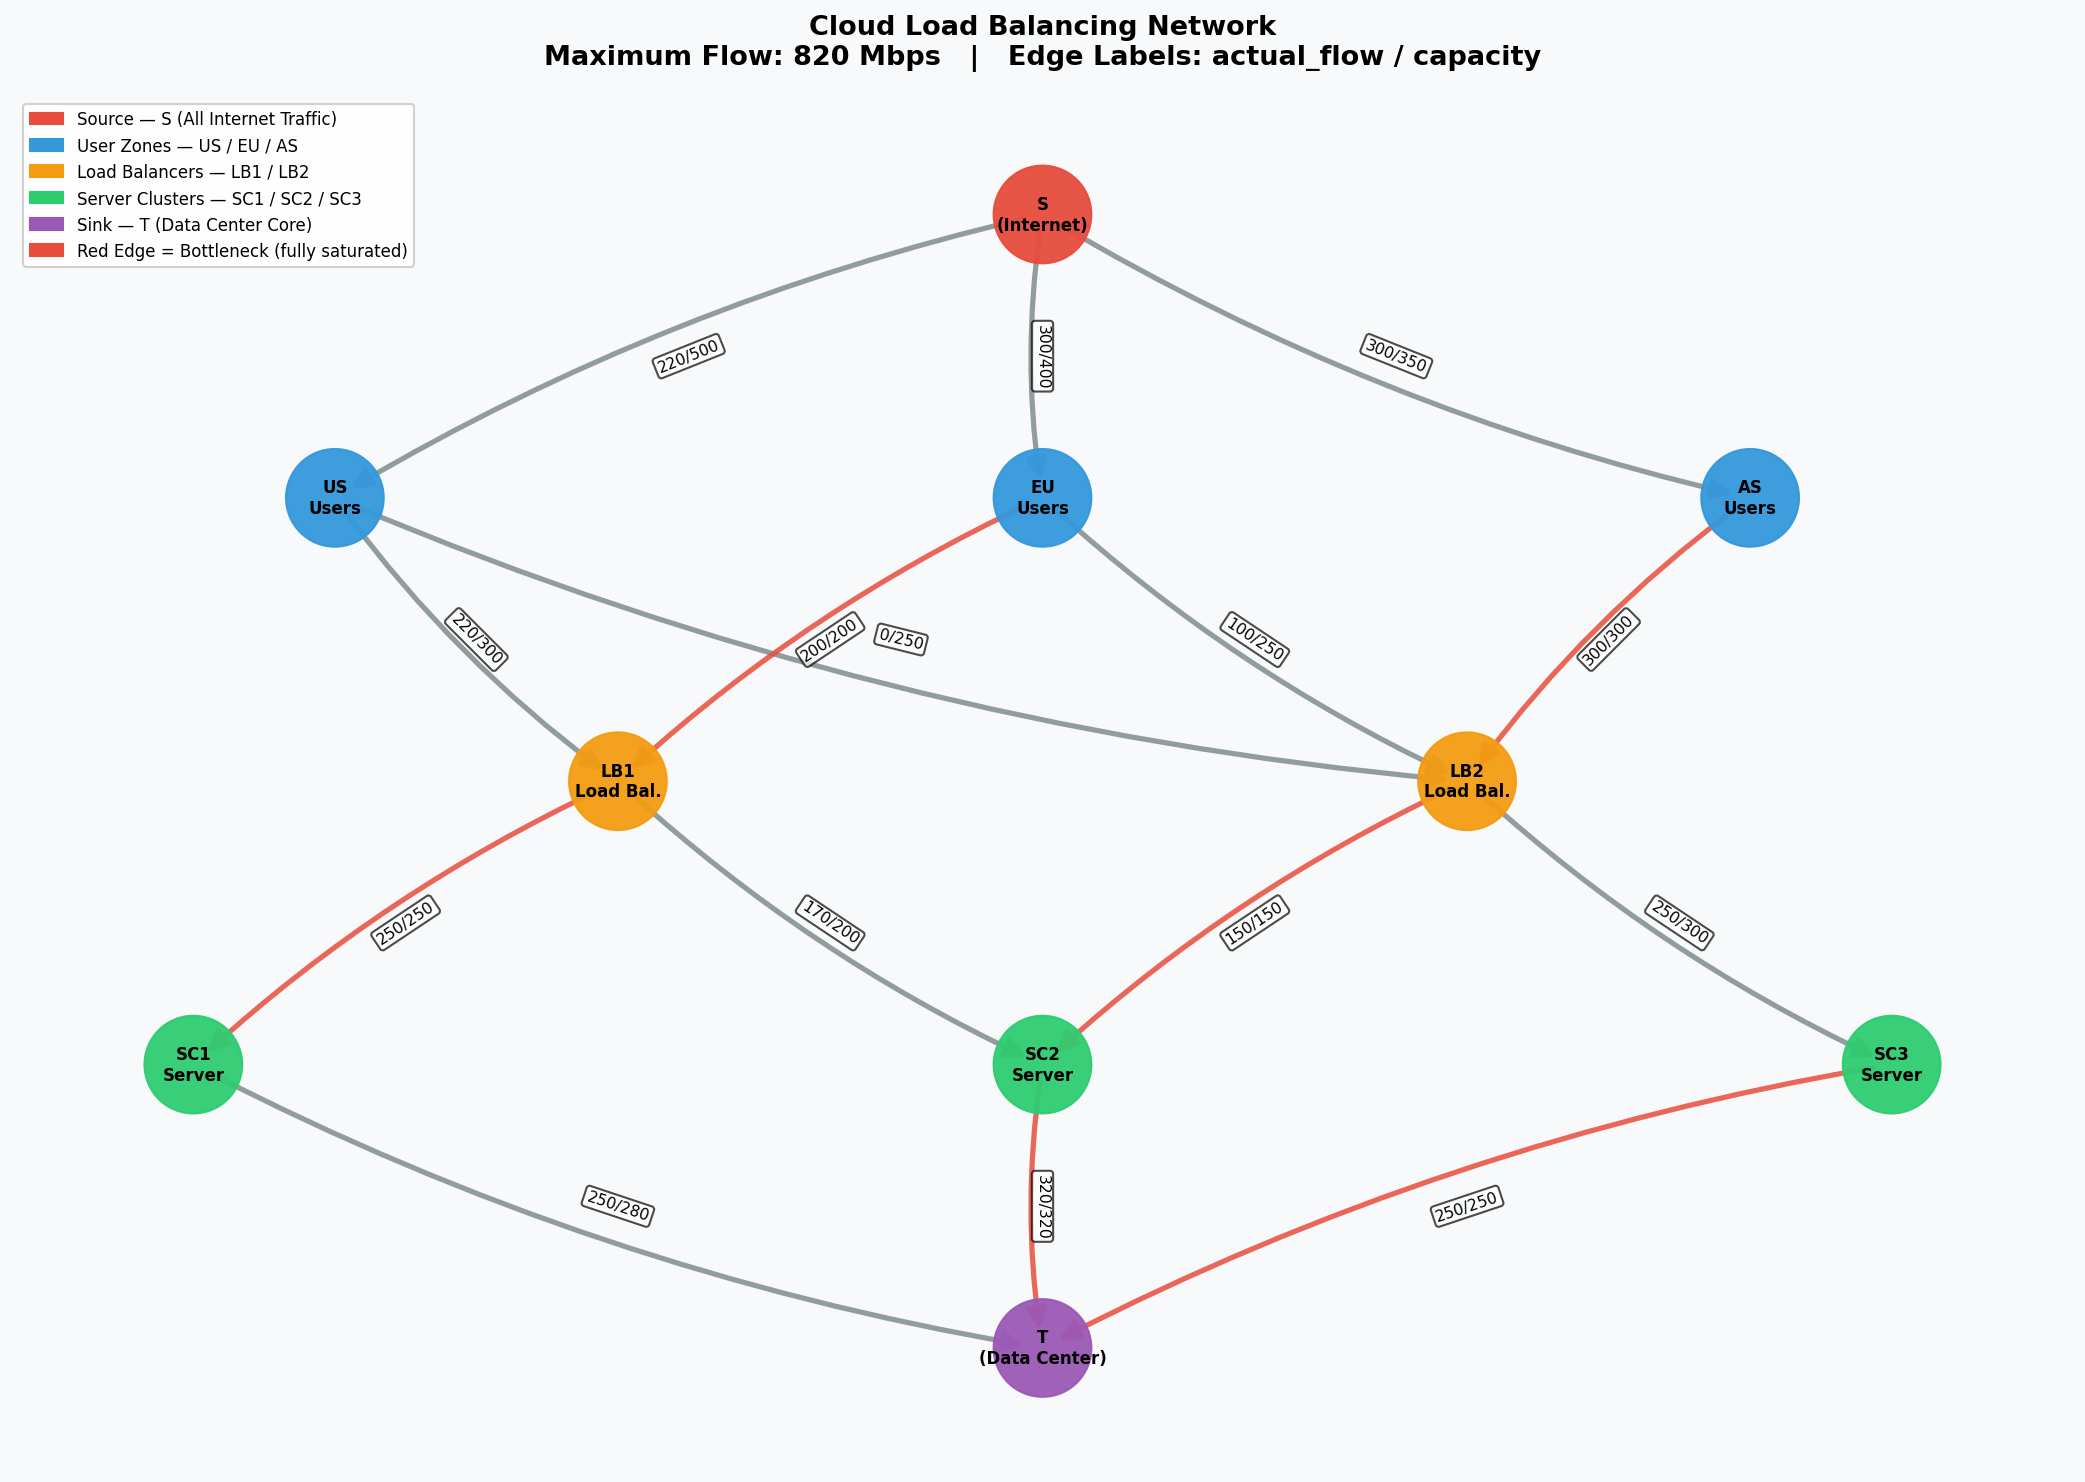
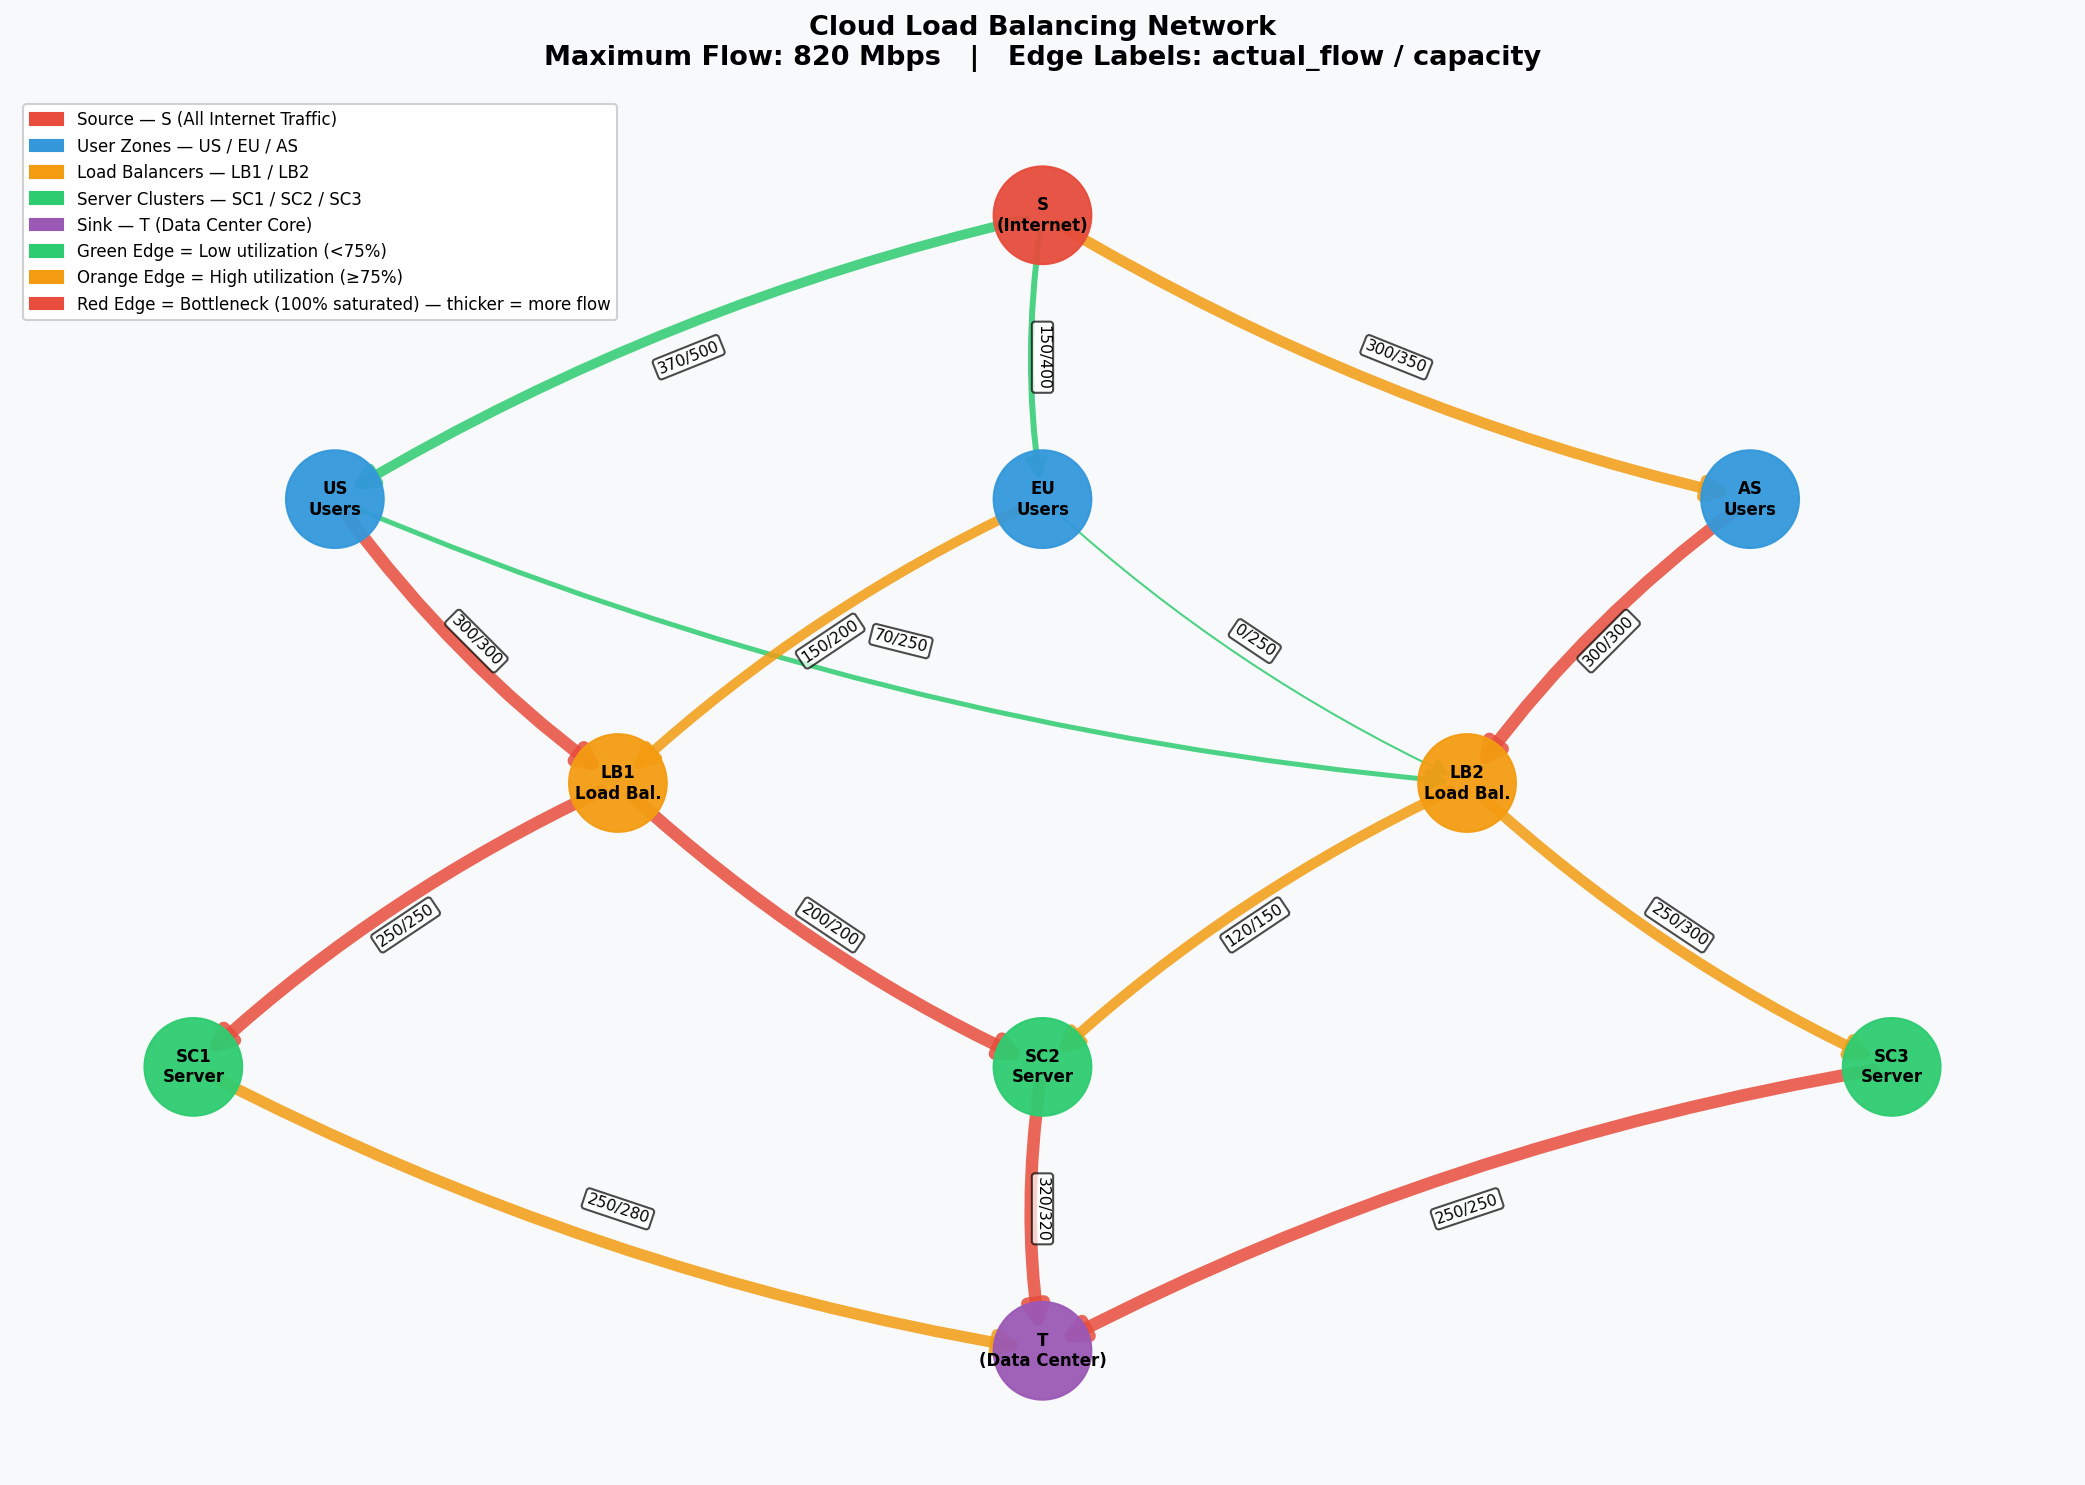
Add min-cut analysis, sensitivity analysis, and utilization-based edge styling

diff --git a/src/solution.py b/src/solution.py
@@ -82,6 +82,65 @@ def run_max_flow(G, source='S', sink='T'):
 
 
 # -----------------------------------------------------------------------------
+# STEP 3b: MIN-CUT ANALYSIS
+# -----------------------------------------------------------------------------
+# The Max-Flow Min-Cut theorem states that the maximum flow equals the capacity
+# of the minimum cut — the smallest set of edges whose removal disconnects S from T.
+# These are the true bottleneck edges of the network.
+
+def run_min_cut(G, source='S', sink='T'):
+    """
+    Find the minimum cut of the network.
+    Returns cut_value and the two partitions of nodes.
+    """
+    cut_value, (reachable, non_reachable) = nx.minimum_cut(G, source, sink)
+
+    print(f"\n{'='*55}")
+    print(f"  MIN-CUT ANALYSIS  (Max-Flow Min-Cut Theorem)")
+    print(f"{'='*55}")
+    print(f"  Min-Cut Value = {cut_value} Mbps  (equals Maximum Flow)")
+    print(f"  Source-side partition : {sorted(reachable)}")
+    print(f"  Sink-side partition   : {sorted(non_reachable)}")
+    print(f"\n  Cut edges (true bottlenecks):")
+    for u in reachable:
+        for v in non_reachable:
+            if G.has_edge(u, v):
+                cap = G[u][v]['capacity']
+                print(f"    {u} → {v}  |  capacity: {cap} Mbps")
+
+    return cut_value, reachable, non_reachable
+
+
+# -----------------------------------------------------------------------------
+# STEP 3c: SENSITIVITY ANALYSIS
+# -----------------------------------------------------------------------------
+# For each bottleneck edge, we estimate how much upgrading it by +50 Mbps
+# would increase the overall maximum flow.
+
+def sensitivity_analysis(G, flow_dict, flow_value, source='S', sink='T'):
+    """
+    For each saturated (bottleneck) edge, temporarily increase its capacity
+    by 50 Mbps and recompute max flow to see the gain.
+    """
+    print(f"\n{'='*55}")
+    print(f"  SENSITIVITY ANALYSIS  (+50 Mbps upgrade simulation)")
+    print(f"{'='*55}")
+    print(f"  {'Edge':<12} {'Current Cap':>12} {'New Flow':>10} {'Gain':>8}")
+    print(f"  {'-'*44}")
+
+    for u, v, data in G.edges(data=True):
+        flow = flow_dict.get(u, {}).get(v, 0)
+        if flow == data['capacity']:          # saturated edge
+            original_cap = data['capacity']
+            G[u][v]['capacity'] = original_cap + 50
+            new_flow, _ = nx.maximum_flow(G, source, sink)
+            gain = new_flow - flow_value
+            G[u][v]['capacity'] = original_cap   # restore
+            print(f"  {u}→{v:<8} {original_cap:>10} Mbps "
+                  f"{new_flow:>8} Mbps  +{gain} Mbps")
+
+
+# -----------------------------------------------------------------------------
 # STEP 4: VISUALIZE THE NETWORK
 # -----------------------------------------------------------------------------
 # We draw the network in layers to clearly show the flow path:
@@ -141,14 +200,20 @@ def visualize(G, flow_dict, flow_value, output_path='results/network_visualizati
         cap  = data['capacity']
         edge_labels[(u, v)] = f"{flow}/{cap}"
 
-    # Color saturated edges (flow = capacity) in red to highlight bottlenecks
+    # Color and thickness based on utilization %
+    # Green (low) → Yellow (medium) → Red (saturated bottleneck)
     edge_colors = []
+    edge_widths = []
     for u, v, data in G.edges(data=True):
         flow = flow_dict.get(u, {}).get(v, 0)
-        if flow == data['capacity']:
-            edge_colors.append('#e74c3c')   # saturated — bottleneck!
+        util = flow / data['capacity'] if data['capacity'] > 0 else 0
+        edge_widths.append(1.0 + util * 5.0)   # 1px (empty) to 6px (full)
+        if util == 1.0:
+            edge_colors.append('#e74c3c')   # red — fully saturated bottleneck
+        elif util >= 0.75:
+            edge_colors.append('#f39c12')   # orange — high utilization
         else:
-            edge_colors.append('#7f8c8d')   # has remaining capacity
+            edge_colors.append('#2ecc71')   # green — capacity available
 
     fig, ax = plt.subplots(figsize=(14, 10))
     fig.patch.set_facecolor('#f8f9fa')
@@ -162,7 +227,7 @@ def visualize(G, flow_dict, flow_value, output_path='results/network_visualizati
 
     # Draw edges
     nx.draw_networkx_edges(G, pos, edge_color=edge_colors, arrows=True,
-                           arrowsize=20, width=2.5, ax=ax,
+                           arrowsize=20, width=edge_widths, ax=ax,
                            connectionstyle='arc3,rad=0.08', alpha=0.85)
 
     # Draw edge labels
@@ -178,7 +243,9 @@ def visualize(G, flow_dict, flow_value, output_path='results/network_visualizati
         mpatches.Patch(color='#f39c12', label='Load Balancers — LB1 / LB2'),
         mpatches.Patch(color='#2ecc71', label='Server Clusters — SC1 / SC2 / SC3'),
         mpatches.Patch(color='#9b59b6', label='Sink — T (Data Center Core)'),
-        mpatches.Patch(color='#e74c3c', label='Red Edge = Bottleneck (fully saturated)'),
+        mpatches.Patch(color='#2ecc71', label='Green Edge = Low utilization (<75%)'),
+        mpatches.Patch(color='#f39c12', label='Orange Edge = High utilization (≥75%)'),
+        mpatches.Patch(color='#e74c3c', label='Red Edge = Bottleneck (100% saturated) — thicker = more flow'),
     ]
     ax.legend(handles=legend_elements, loc='upper left', fontsize=8,
               framealpha=0.9)
@@ -265,6 +332,9 @@ if __name__ == "__main__":
     print(f"\n{'='*55}")
     print(f"  MAXIMUM FLOW  =  {flow_val} Mbps")
     print(f"{'='*55}\n")
+
+    run_min_cut(G)
+    sensitivity_analysis(G, fd, flow_val)
 
     visualize(G, fd, flow_val, VIZ_PATH)
     save_results(flow_val, fd, G, OUT_PATH)
